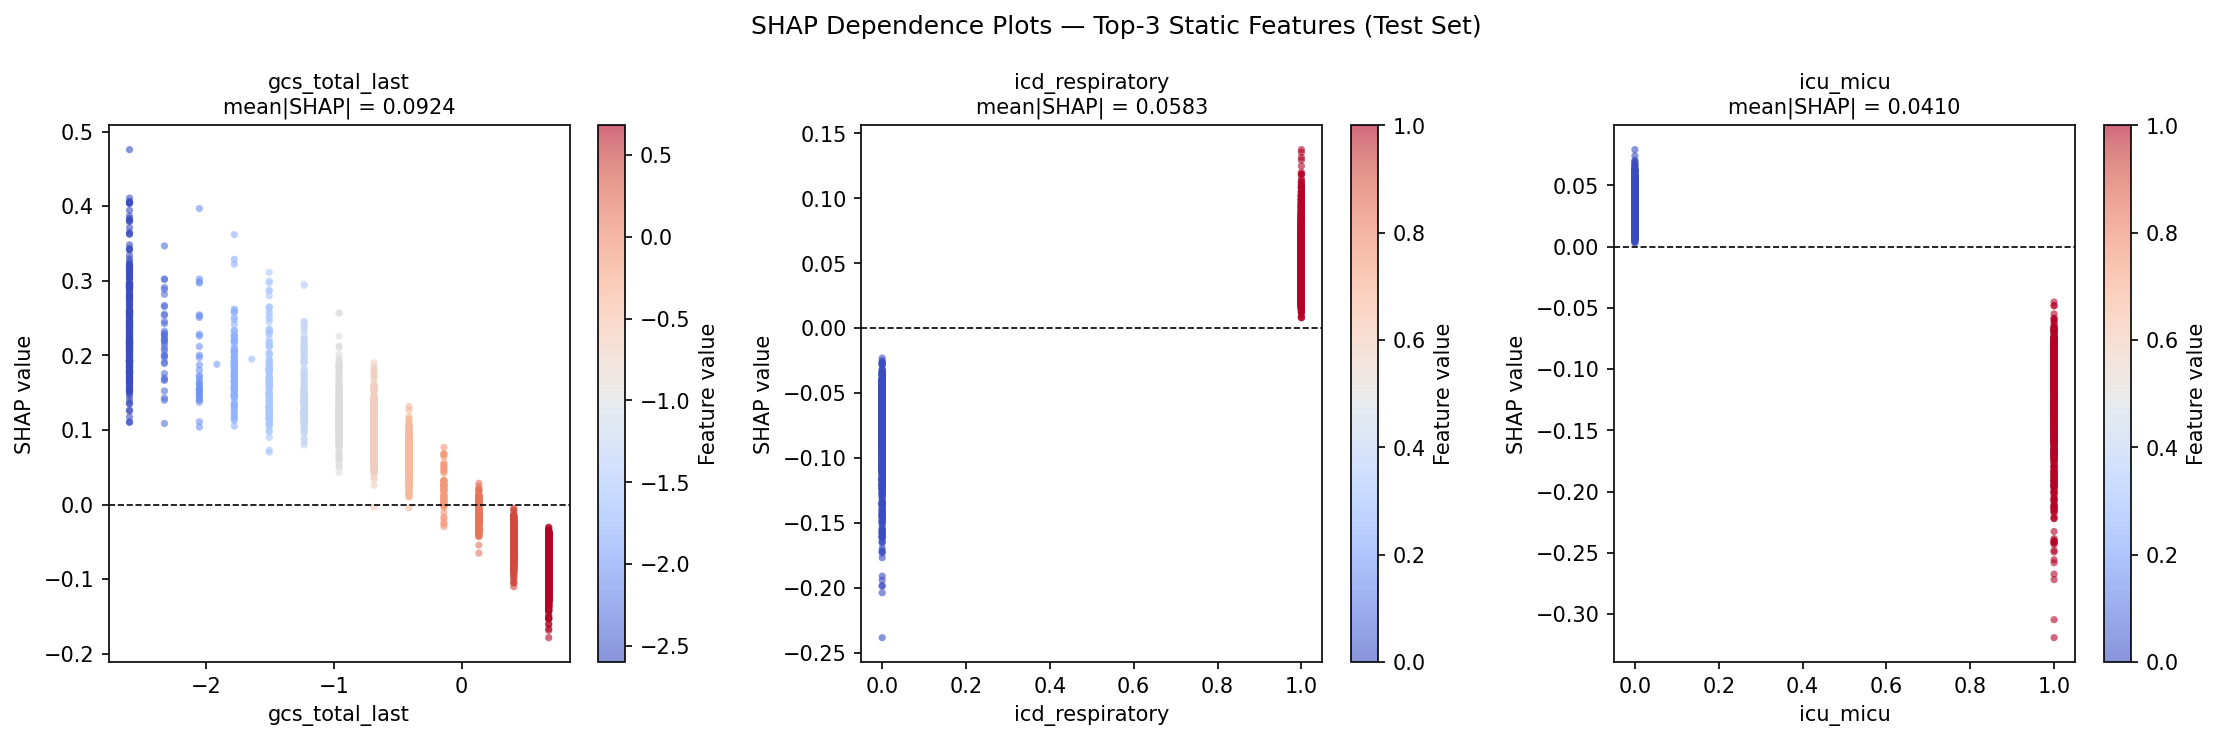
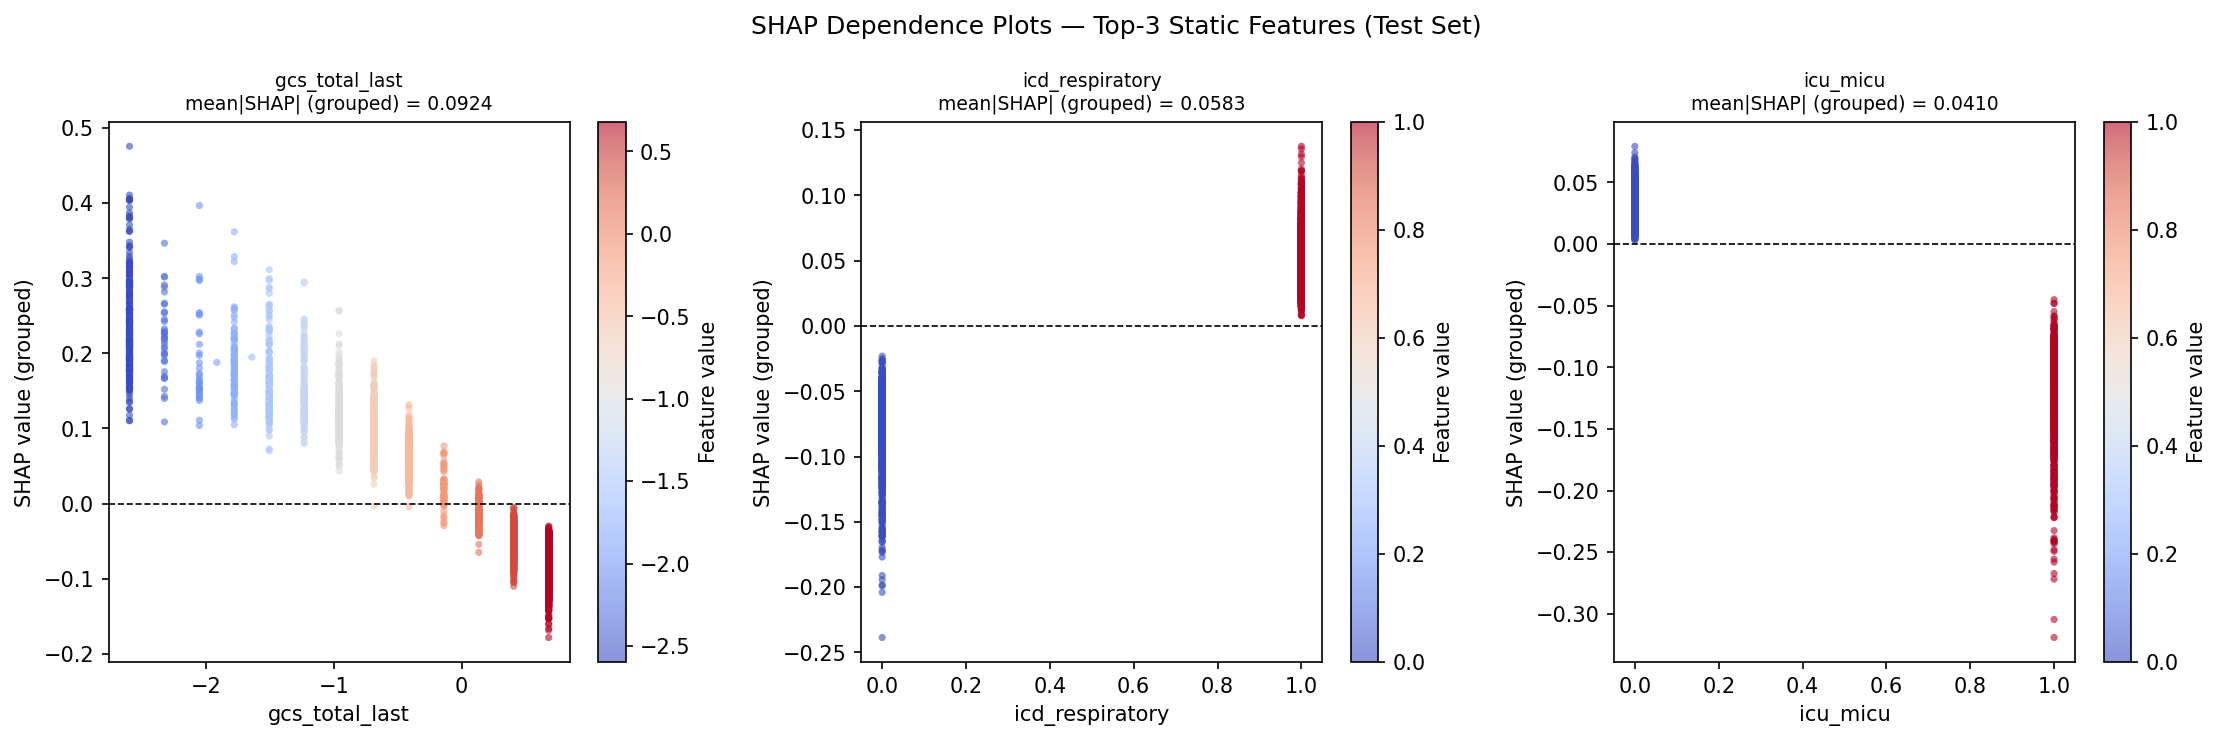
Group correlated static features before SHAP display
Several static features are near-duplicates of each other (e.g.
heart_rate_mean vs heart_rate_median, or dbp_mean vs map_mean, r >
0.85 on train). SHAP has no way to know two such columns carry almost
the same information, so it can split credit between them arbitrarily
-- confirmed empirically: dbp_mean/map_mean get opposite-signed SHAP
values for 85% of test patients despite moving together, which would
show a clinician two bars pointing in opposite directions for what is
really one physiological signal.

Add group_correlated_static_features()/grouped_shap() to
multimodal_utils.py: features are clustered via complete-linkage
(clique) merging, not plain transitive union-find, so a group only
forms when every pair inside it clears the threshold -- this avoids a
hub column (e.g. gcs_total, which correlates with each of its own
eye/verbal/motor sub-scores individually) from transitively dragging
clinically distinct sub-scores into one bucket.

09_shap.py gets a grouped console ranking and shap_summary_grouped.png
alongside the existing raw outputs. 10_explainability.py's waterfall
plots (the per-patient view) and dependence plots now rank/display
grouped attributions, so a patient's explanation reports one stable
combined number per underlying signal instead of several that can
contradict each other. Grouping only changes how attribution is
reported -- it sums to the same total per patient as the raw SHAP
values, and the model itself is untouched.
[…]

diff --git a/pipeline/baseline/10_explainability.py b/pipeline/baseline/10_explainability.py
@@ -52,7 +52,7 @@ sys.path.append(str(Path(__file__).parent.parent))  # pipeline/ -> config.py / m
 from config import OUTPUT_DIR
 from multimodal_utils import (
     ICUDataset, GRUModel, SHAPWrapper, load_multimodal_model,
-    get_cxr_feature_groups,
+    get_cxr_feature_groups, group_correlated_static_features, grouped_shap,
 )
 
 SEED       = 42
@@ -125,8 +125,25 @@ print("GradientExplainer created.")
 # or DOWN (blue) relative to the model's average prediction (base value).
 # Starting at E[f(x)] on the left, each bar adds or subtracts its SHAP
 # value until we arrive at this patient's prediction f(x) on the right.
+#
+# Bars are grouped: several static features are near-duplicates of each
+# other (e.g. heart_rate_mean vs heart_rate_median, dbp_mean vs map_mean,
+# r > 0.85 on train). Shown individually, SHAP can split credit between
+# them arbitrarily -- confirmed empirically: dbp_mean/map_mean get
+# opposite-signed SHAP for 85% of test patients despite moving together,
+# which would show a clinician two bars pointing in opposite directions for
+# what is really one physiological signal. Grouping sums the SHAP values of
+# correlated features into one bar per underlying signal before ranking/
+# plotting; the individual raw value ("=1.23") is only shown for ungrouped
+# (singleton) features, since a summed value across correlated columns
+# would not be a meaningful clinical number.
 
 print("\n─── A) Waterfall Plots ───────────────────────────────────────────")
+
+corr_groups = group_correlated_static_features(X_train[STATIC_FEATURES], threshold=0.85)
+n_multi = sum(1 for members in corr_groups.values() if len(members) > 1)
+print(f"  {len(STATIC_FEATURES)} static features -> {len(corr_groups)} groups "
+      f"({n_multi} contain >1 correlated feature)")
 
 # Pick 3 representative patients from the test set
 test_preds_sorted = test_preds.sort_values("y_prob").reset_index(drop=True)
@@ -146,7 +163,16 @@ test_expl_indexed = test_expl.set_index("stay_id")
 base_value = float(test_preds["y_prob"].mean())
 # base_value is the mean test prediction — an approximation of E[f(x)] over the background set
 
-TOP_N_WATERFALL = 15   # features shown in each waterfall
+TOP_N_WATERFALL = 15   # groups shown in each waterfall
+
+# Group index -> raw feature name, only for singleton groups (a summed value
+# across correlated columns, e.g. dbp_mean + map_mean, has no single clinical
+# reading, so only ungrouped features get a "= value" annotation below).
+group_singleton_feat = [
+    members[0] if len(members) == 1 else None
+    for members in corr_groups.values()
+]
+feat_idx = {f: i for i, f in enumerate(STATIC_FEATURES)}
 
 for case_name, patient_row in patient_cases.items():
     sid      = patient_row["stay_id"]
@@ -157,24 +183,30 @@ for case_name, patient_row in patient_cases.items():
         print(f"  WARNING: stay_id {sid} not in explanations — skipping {case_name}")
         continue
 
-    shap_row    = test_expl_indexed.loc[sid, STATIC_FEATURES].values.astype(float)
-    feature_row = X_test.set_index("stay_id").loc[sid, STATIC_FEATURES].values.astype(float)
+    shap_row_raw = test_expl_indexed.loc[sid, STATIC_FEATURES].values.astype(float)
+    feature_row  = X_test.set_index("stay_id").loc[sid, STATIC_FEATURES].values.astype(float)
 
-    # Sort features by |SHAP| descending; keep top N
+    grouped_row, group_labels = grouped_shap(shap_row_raw[None, :], STATIC_FEATURES, corr_groups)
+    shap_row = grouped_row[0]  # (n_groups,) — sums to the same total as shap_row_raw
+
+    # Sort groups by |SHAP| descending; keep top N
     order      = np.argsort(np.abs(shap_row))[::-1]
     top_idx    = order[:TOP_N_WATERFALL]
     top_shap   = shap_row[top_idx]
-    top_names  = [STATIC_FEATURES[i] for i in top_idx]
-    top_vals   = feature_row[top_idx]
+    top_names  = [group_labels[i] for i in top_idx]
+    top_vals   = np.array([
+        feature_row[feat_idx[group_singleton_feat[i]]] if group_singleton_feat[i] is not None else np.nan
+        for i in top_idx
+    ])
 
-    # Residual: sum of all shap values NOT shown
+    # Residual: sum of all group SHAP values NOT shown
     residual = shap_row.sum() - top_shap.sum()
 
     fig, ax = plt.subplots(figsize=(9, 6))
 
     # Build cumulative baseline for waterfall bars
     shap_with_residual = np.append(top_shap, residual)
-    names_with_residual = top_names + [f"... {len(STATIC_FEATURES) - TOP_N_WATERFALL} others"]
+    names_with_residual = top_names + [f"... {len(corr_groups) - TOP_N_WATERFALL} others"]
 
     cumulative   = base_value
     bar_bottoms  = []
@@ -229,33 +261,44 @@ for case_name, patient_row in patient_cases.items():
 # (x-axis) and its SHAP contribution (y-axis) across all test patients.
 # Unlike a global bar chart, it reveals non-linear effects and thresholds:
 # e.g., "age only matters above 65" or "high heart rate always hurts".
+#
+# Top-3 is picked from GROUPED (correlated features combined, see the
+# waterfall section above) mean |SHAP| — otherwise two near-duplicate raw
+# columns (e.g. heart_rate_mean and heart_rate_median) could occupy 2 of
+# the 3 "top" slots for what is really one signal, crowding out a genuinely
+# different third feature. The scatter itself still needs one concrete
+# x-axis value, so it plots the group's representative (shortest-named)
+# member's own value against the group's SUMMED SHAP.
 
 print("\n─── B) Dependence Plots ─────────────────────────────────────────")
 
 test_static_shap = test_expl[STATIC_FEATURES].values         # (N_test, F)
 test_static_vals = X_test.drop(columns=["stay_id"]).values   # (N_test, F)
 
-mean_abs_shap = np.abs(test_static_shap).mean(axis=0)
-top3_idx      = np.argsort(mean_abs_shap)[::-1][:3]
-top3_names    = [STATIC_FEATURES[i] for i in top3_idx]
+grouped_test_shap, group_labels_b = grouped_shap(test_static_shap, STATIC_FEATURES, corr_groups)
+mean_abs_grouped_b = np.abs(grouped_test_shap).mean(axis=0)
+top3_group_idx = np.argsort(mean_abs_grouped_b)[::-1][:3]
+group_ids      = list(corr_groups.keys())  # same order grouped_shap() iterated corr_groups in
+top3_repr_feat = [group_ids[i] for i in top3_group_idx]
+top3_labels    = [group_labels_b[i] for i in top3_group_idx]
 
-print(f"  Top-3 static features: {top3_names}")
+print(f"  Top-3 GROUPED static features: {top3_labels}")
 
 fig, axes = plt.subplots(1, 3, figsize=(15, 5))
 
-for ax, idx, name in zip(axes, top3_idx, top3_names):
-    x_vals  = test_static_vals[:, idx]
-    y_shap  = test_static_shap[:, idx]
+for ax, gi, repr_feat, label in zip(axes, top3_group_idx, top3_repr_feat, top3_labels):
+    x_vals  = test_static_vals[:, feat_idx[repr_feat]]
+    y_shap  = grouped_test_shap[:, gi]
 
-    # Color points by the feature's own value for extra depth
+    # Color points by the representative feature's own value for extra depth
     sc = ax.scatter(x_vals, y_shap, c=x_vals, cmap="coolwarm",
                     s=12, alpha=0.6, linewidths=0)
     plt.colorbar(sc, ax=ax, label="Feature value")
 
     ax.axhline(0, color="black", linewidth=0.8, linestyle="--")
-    ax.set_xlabel(name, fontsize=10)
-    ax.set_ylabel("SHAP value", fontsize=10)
-    ax.set_title(f"{name}\nmean|SHAP| = {mean_abs_shap[idx]:.4f}", fontsize=10)
+    ax.set_xlabel(repr_feat, fontsize=10)
+    ax.set_ylabel("SHAP value (grouped)", fontsize=10)
+    ax.set_title(f"{label}\nmean|SHAP| (grouped) = {mean_abs_grouped_b[gi]:.4f}", fontsize=9)
 
 fig.suptitle("SHAP Dependence Plots — Top-3 Static Features (Test Set)", fontsize=12)
 plt.tight_layout()

diff --git a/pipeline/multimodal_utils.py b/pipeline/multimodal_utils.py
@@ -47,6 +47,96 @@ def get_cxr_feature_groups(static_features: list[str]) -> dict:
     }
 
 
+# ── Correlated-feature grouping for SHAP display ─────────────────────────────
+# Several static features are near-duplicates of each other (e.g. heart_rate_mean
+# vs heart_rate_median, or dbp_mean vs map_mean, r > 0.9 on train). SHAP has no
+# way to know two such columns carry almost the same information, so it can
+# split credit between them arbitrarily -- observed empirically: dbp_mean and
+# map_mean get opposite-signed SHAP values for 85% of test patients even
+# though the two inputs move together. Grouping correlated features before
+# display reports one combined, stable number instead of two that can
+# contradict each other for the same patient.
+
+def group_correlated_static_features(X_train_static, threshold: float = 0.85) -> dict:
+    """Cluster columns of X_train_static (fit on train only) whose pairwise
+    Pearson |correlation| exceeds `threshold`.
+
+    Uses complete-linkage (clique) merging, not simple transitive union-find:
+    a candidate merge is only accepted if EVERY pair in the resulting group
+    exceeds `threshold`, not just a chain through one shared "hub" column.
+    This matters because a hub like gcs_total_mean correlates > 0.85 with
+    each of gcs_eye/verbal/motor_mean individually (it's their sum), but
+    those three are only ~0.7-0.84 correlated with EACH OTHER -- clinically
+    distinct sub-scores that a naive transitive merge would wrongly fold
+    into one bucket. dbp/map's mean+median, by contrast, are all pairwise
+    > 0.85 with each other and correctly form one group.
+
+    Returns {group_id: [member_feature_names, ...]}, sorted; group_id is the
+    shortest member name (deterministic, human-readable).
+    """
+    feats = list(X_train_static.columns)
+    corr = X_train_static[feats].corr()
+    corr_arr = corr.values
+    n = len(feats)
+
+    # groups[i] = the group (list of feature indices) that feature i belongs to
+    groups = [[i] for i in range(n)]
+    group_of = list(range(n))  # feature index -> position in `groups`
+
+    edges = [
+        (abs(corr_arr[i, j]), i, j)
+        for i in range(n) for j in range(i + 1, n)
+        if np.isfinite(corr_arr[i, j]) and abs(corr_arr[i, j]) > threshold
+    ]
+    edges.sort(reverse=True)  # merge strongest correlations first
+
+    for _, i, j in edges:
+        gi, gj = group_of[i], group_of[j]
+        if gi == gj:
+            continue
+        candidate = groups[gi] + groups[gj]
+        # Complete-linkage check: every pair in the merged group must clear threshold
+        if all(
+            abs(corr_arr[a, b]) > threshold
+            for idx_a, a in enumerate(candidate) for b in candidate[idx_a + 1:]
+        ):
+            for m in candidate:
+                group_of[m] = gi
+            groups[gi] = candidate
+            groups[gj] = []
+
+    clusters = [g for g in groups if g]
+    return {
+        min((feats[i] for i in members), key=len): sorted(feats[i] for i in members)
+        for members in clusters
+    }
+
+
+def grouped_shap(shap_values: np.ndarray, feature_names: list[str], groups: dict) -> tuple[np.ndarray, list[str]]:
+    """Sum per-column SHAP values within each correlated group.
+
+    shap_values: (N, F) array aligned with feature_names.
+    groups: output of group_correlated_static_features().
+
+    Returns (grouped_values (N, n_groups), display_labels) where a group of
+    size 1 keeps its plain name and a group of size > 1 is labeled
+    "name (+k correlated: ...)" so it's clear the number is a combined signal.
+    """
+    idx = {f: i for i, f in enumerate(feature_names)}
+    grouped_cols, labels = [], []
+    for group_id, members in groups.items():
+        cols = [idx[m] for m in members if m in idx]
+        if not cols:
+            continue
+        grouped_cols.append(shap_values[:, cols].sum(axis=1))
+        if len(members) == 1:
+            labels.append(group_id)
+        else:
+            others = ", ".join(m for m in members if m != group_id)
+            labels.append(f"{group_id} (+{len(members) - 1} correlated: {others})")
+    return np.stack(grouped_cols, axis=1), labels
+
+
 # ── Dataset ────────────────────────────────────────────────────────────────
 
 class ICUDataset(Dataset):

diff --git a/pipeline/baseline/09_shap.py b/pipeline/baseline/09_shap.py
@@ -44,7 +44,7 @@ sys.path.append(str(Path(__file__).parent.parent))  # pipeline/ -> config.py / m
 from config import OUTPUT_DIR
 from multimodal_utils import (
     ICUDataset, GRUModel, SHAPWrapper, load_multimodal_model,
-    get_cxr_feature_groups,
+    get_cxr_feature_groups, group_correlated_static_features, grouped_shap,
 )
 
 SEED       = 42
@@ -235,3 +235,51 @@ if HAS_CXR_FEATURES:
     print(f"  Baseline clinical : {mean_abs[groups['baseline']].mean():.4f}")
     print(f"  CXR structured    : {mean_abs[groups['cxr_struct']].mean():.4f}" if groups['cxr_struct'] else "")
     print(f"  BERT PCA          : {mean_abs[groups['bert_pca']].mean():.4f}"   if groups['bert_pca']   else "")
+
+
+# ═══════════════════════════════════════════════════════════════════════
+# GROUPED SHAP — correlated static features combined
+# ═══════════════════════════════════════════════════════════════════════
+# Several static features are near-duplicates of each other (e.g.
+# heart_rate_mean vs heart_rate_median, or dbp_mean vs map_mean, r > 0.85 on
+# train). Individually, SHAP has no way to know two such columns carry
+# almost the same information and can split credit between them
+# arbitrarily -- confirmed empirically: dbp_mean/map_mean get opposite-signed
+# SHAP for 85% of test patients despite moving together. This section sums
+# SHAP within each correlated group (fit on train only) so the top-feature
+# ranking and plot report one stable, combined number per underlying signal
+# instead of several that can contradict each other for the same patient.
+# The raw, ungrouped outputs above are kept unchanged for anyone who wants
+# the per-column detail.
+
+print("\n─── Grouped SHAP (correlated static features combined) ────────────")
+
+corr_groups = group_correlated_static_features(X_train[STATIC_FEATURES], threshold=0.85)
+n_multi = sum(1 for members in corr_groups.values() if len(members) > 1)
+print(f"  {len(STATIC_FEATURES)} static features -> {len(corr_groups)} groups "
+      f"({n_multi} contain >1 correlated feature)")
+
+grouped_vals, grouped_labels = grouped_shap(test_static_shap, STATIC_FEATURES, corr_groups)
+mean_abs_grouped = pd.Series(
+    np.abs(grouped_vals).mean(axis=0), index=grouped_labels
+).sort_values(ascending=False)
+
+print(f"\nTop 10 GROUPED static features by mean |SHAP| (test set):")
+for feat, val in mean_abs_grouped.head(10).items():
+    print(f"  {feat:<70} {val:.4f}")
+
+top20_grouped = mean_abs_grouped.head(20).sort_values()
+fig, ax = plt.subplots(figsize=(11, 8))
+ax.barh(range(len(top20_grouped)), top20_grouped.values, color="#82c28e")
+ax.set_yticks(range(len(top20_grouped)))
+ax.set_yticklabels(top20_grouped.index, fontsize=8)
+ax.set_xlabel("Mean |SHAP| (test set)")
+ax.set_title(
+    "Grouped SHAP Feature Importance — Static Features (Test Set)\n"
+    "correlated features (|r| > 0.85 on train) combined into one bar",
+    fontsize=12,
+)
+plt.tight_layout()
+plt.savefig(OUTPUT_DIR / "shap_summary_grouped.png", dpi=150, bbox_inches="tight")
+plt.close()
+print("\nSaved: output/shap_summary_grouped.png")
